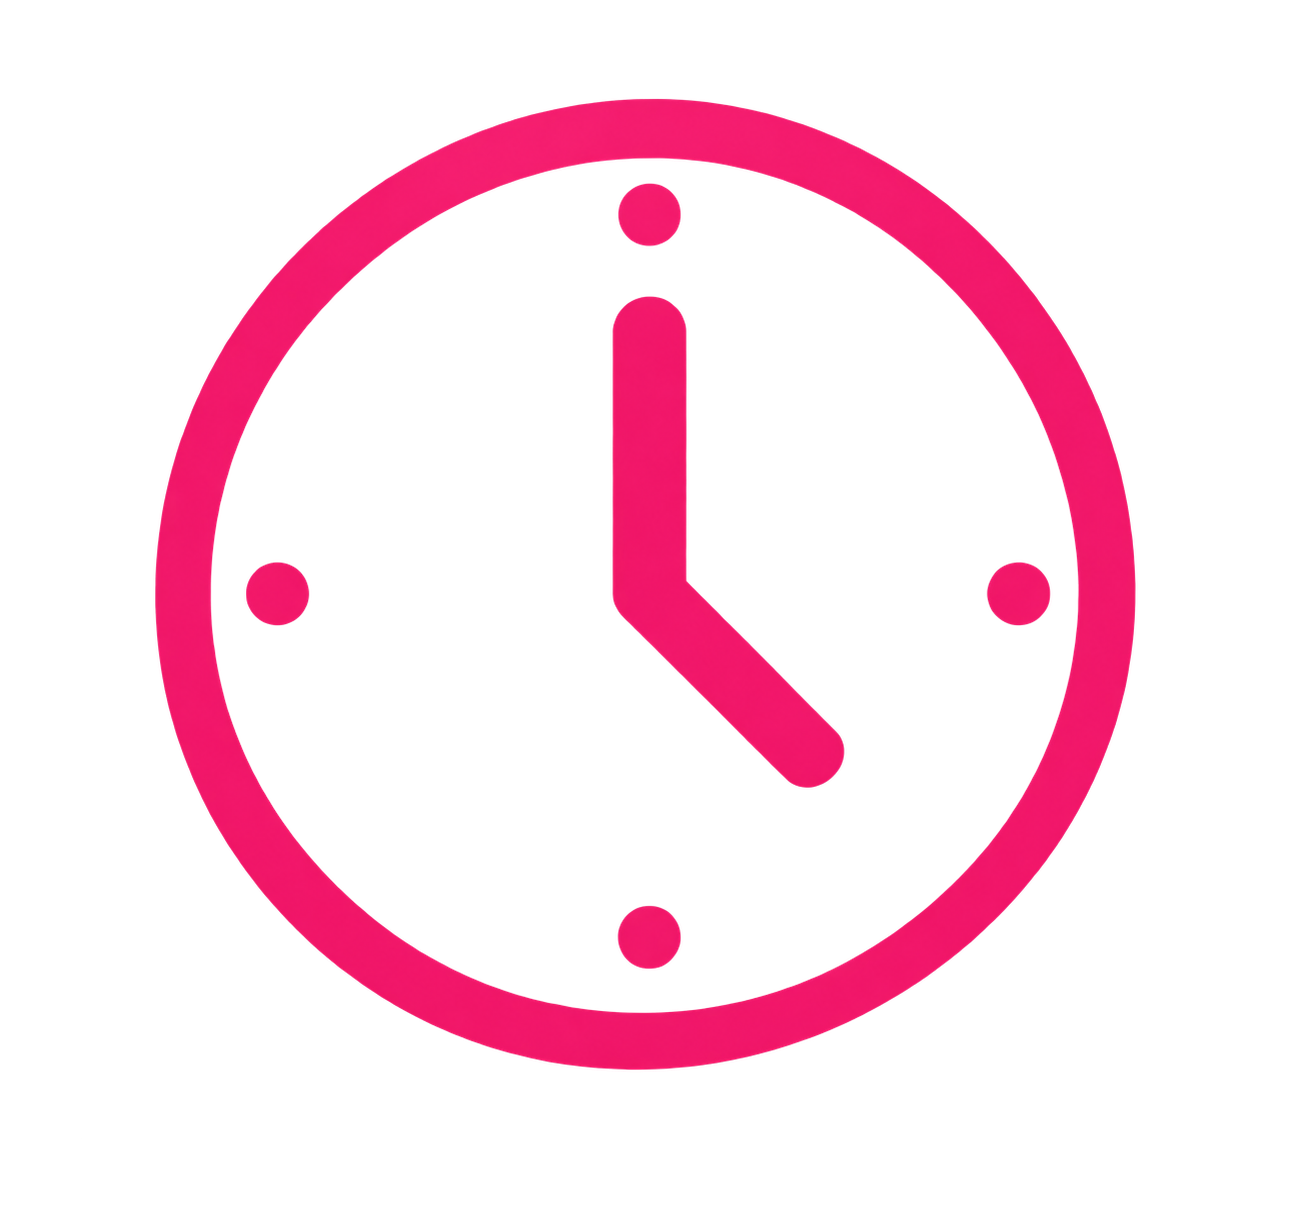
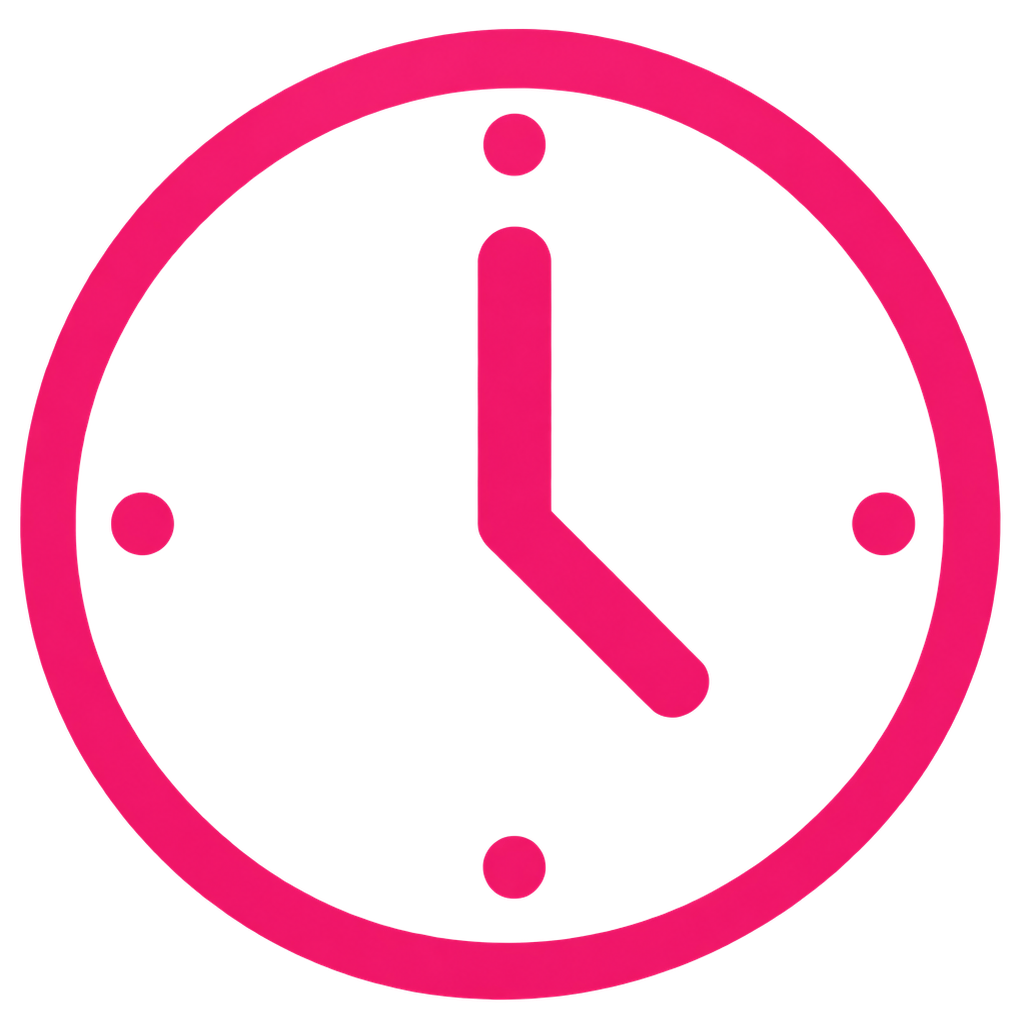
mas arreglitos en la pagina principal

diff --git a/public/css/paginaPrincipal.css b/public/css/paginaPrincipal.css
@@ -238,21 +238,19 @@ body {
 .mas-vendida{
     background: #fff;
 }
-
 .mas-vendida .banner-overlay{
     width: 55%;
-
-    display: flex;
-    flex-direction: column;
-    justify-content: center;
-
     padding-left: 30px;
-    padding-top: 35px;
+    transform: translateY(10px);
+}
+.mas-vendida .banner-overlay h3{
+    color: black;
+    max-width: 250px;
 }
 
 .img-mas-vendida{
     position: absolute;
-    right: -100px;
+    right: -120px;
     bottom: -10px;
 
     height: 105%;
@@ -268,31 +266,13 @@ body {
     font-weight: 900;
     font-style: italic;
     text-transform: uppercase;
-
-    margin-bottom: 8px;
-
     line-height: 1;
 }
-.vendida-titulo span {
+
+.vendida-titulo span{
     color: #ff2f7d;
 }
 
-.banner-vendida h3 {
-    color: black;
-
-    font-size: 16px;
-    font-weight: 700;
-
-    text-transform: uppercase;
-
-    margin-top: 8px;
-    margin-bottom: 10px;
-
-    line-height: 1.3;
-
-    max-width: 250px;
-    transform: translateY(15px);
-}
 .retiro-delivery {
     position: relative;
     overflow: hidden;
@@ -386,7 +366,7 @@ body {
 
 .sucursal-contenido {
     display: flex;
-    gap: 20px;
+    gap: 35px;
     align-items: stretch;
 }
 
@@ -398,7 +378,7 @@ body {
 
 .sucursal-datos p {
     display: flex;
-    align-items: flex-start;
+    align-items:  center;
     gap: 15px;
     margin: 0 0 22px 0;
     line-height: 1.5;
@@ -414,6 +394,11 @@ body {
 .sucursal-datos p:nth-child(2) img {
     width: 35px;
     height: 35px;
+}
+
+.sucursal-datos p span{
+    display: block;
+    line-height: 1.5;
 }
 
 /* Mapa */

diff --git a/app/Views/cliente/paginaPrincipal.php b/app/Views/cliente/paginaPrincipal.php
@@ -82,7 +82,7 @@
                         alt="Hamburguesa más vendida"
                         class="img-mas-vendida">
 
-                    <div class="banner-vendida">
+                    <div class="banner-overlay">
 
                         <span class="vendida-titulo">
                             LA MÁS <span>VENDIDA</span>
@@ -165,11 +165,11 @@
                     <div class="sucursal-datos">
                         <p>
                             <img src="<?= base_url('img/ubicacionCala.png') ?>" alt="Ubicación">
-                            Montes de Oca 394, Godoy Cruz
+                            <span>Montes de Oca 394, Godoy Cruz</span>
                         </p>
                         <p>
                             <img src="<?= base_url('img/horario.png') ?>" alt="Horario">
-                            Miercoles a Domingos 20:00pm - 23:59pm
+                            <span>Miercoles a Domingos 20:00pm - 23:59pm</span>
                         </p>
                         <p>
                             <img src="<?= base_url('img/what.png') ?>" alt="WhatsApp">
@@ -194,12 +194,12 @@
                     <div class="sucursal-datos">
                         <p>
                             <img src="<?= base_url('img/ubicacionCala.png') ?>" alt="Ubicación">
-                            Pres.R.Ortiz 1665, Godoy Cruz
+                            <span>Pres.R.Ortiz 1665, Godoy Cruz</span>
                         </p>
                         <p>
                             <img src="<?= base_url('img/horario.png') ?>" alt="Horario">
-                            Miercoles a Domingos 21:00pm - 23:59pm<br>
-                            Viernes a Domingos 12:30pm - 14:00pm
+                            <span>Miercoles a Domingos 21:00pm - 23:59pm<br>
+                            Viernes a Domingos 12:30pm - 14:00pm</span>
                         </p>
                         <p>
                             <img src="<?= base_url('img/what.png') ?>" alt="WhatsApp">
